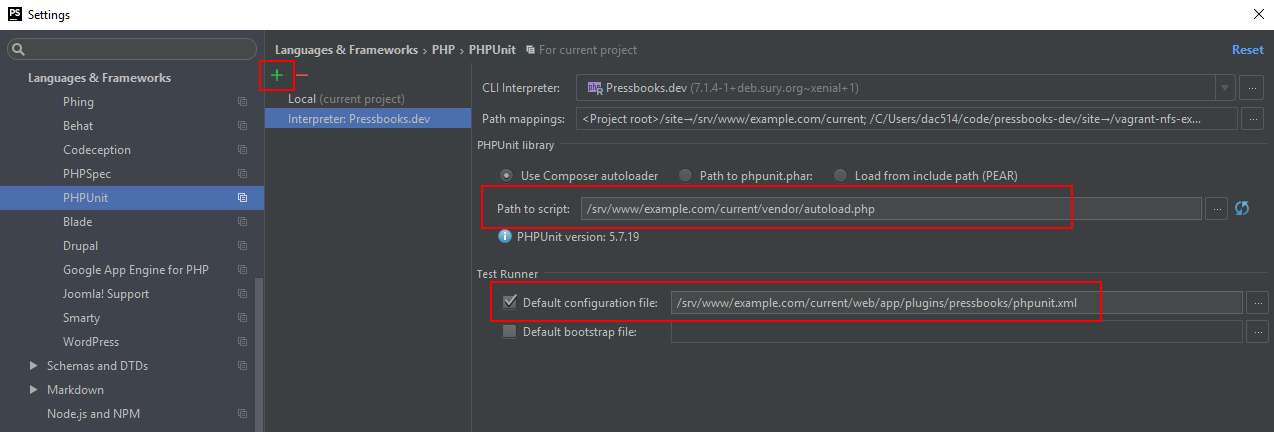
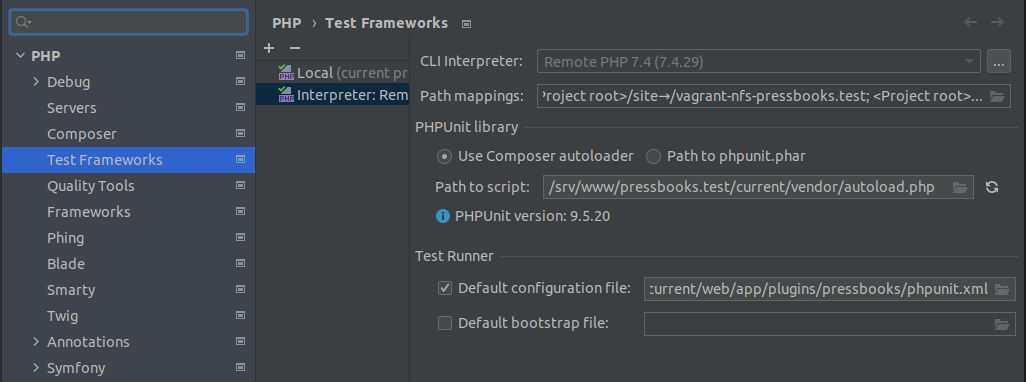
update phpstorm config

diff --git a/src/dev-docs/phpstorm-configuration.md b/src/dev-docs/phpstorm-configuration.md
@@ -1,15 +1,15 @@
 ---
 title: PhpStorm Configuration
-permalink: /docs/phpstorm/
+permalink: /dev-docs/phpstorm/
 ---
 
 ## Enable WordPress Integration
 
-Go to Settings &gt; Languages &amp; Frameworks &gt; PHP &gt; WordPress, enable, set installation path to `~/Code/pressbooks-dev/site/web/wp`:
+Go to Settings → PHP → Frameworks → WordPress, click enable and set installation path to `~/Code/pressbooks-dev/site/web/wp`:
 
 ![WordPress integration][1]
 
-## Npm
+## NPM
 
 Right click on package.json, select "Show npm Scripts":
 
@@ -17,7 +17,9 @@ Right click on package.json, select "Show npm Scripts":
 
 ## Databases
 
-In the Database tool window, click the plus symbol, select Data Source &gt; MySQL:
+[comment]: # "TODO: rewrite this section"
+
+In the Database tool window (View → Tool Windows → Database), click the plus symbol, select Data Source → MySQL:
 
 ![Databases][3]
 
@@ -44,19 +46,19 @@ In the General tab for the testing database _(use the same config as above for S
 
 ## Configure Remote PHP Interpreter
 
-Settings &gt; Languages &amp; Frameworks &gt; PHP &gt; CLI Interpreter, click the three dots [...], click the plus symbol, select "From Vagrant", set "Vagrant Instance File" to the trellis directory.
+Open Settings → PHP and find the CLI Interpreter option. Click the three dots [...], click the plus symbol, select "From Docker, Vagrant, VM, WSL, Remote" and set "Vagrant Instance File" to your Trellis directory.
 
-![PHP Interpreter][4]
+![PHP Interpreter settings step 1](../images/php-interpreter-settings-1.png)
+![PHP Interpreter settings step 2](../images/php-interpreter-settings-2.png)
+![PHP Interpreter completed](../images/php-interpreter-done.png)
 
 ## XDebug
 
-Update to the latest PHPStorm.
+Update to the latest PHPStorm and get the [Xdebug Helper][5] Chrome plugin.
 
-Get the [Xdebug Helper][5] Chrome plugin.
+Go to Settings → PHP &gt; Servers, create a new server named pressbooks.test and map:
 
-Go to Settings &gt; Languages &amp; Frameworks &gt; PHP &gt; Servers, create a new server named pressbooks.dev and map:
-
-- `pressbooks-dev/site` to `/srv/www/example.com/current`
+- `pressbooks-dev/site` to `/srv/www/pressbooks.test/current`
 - `pressbooks-dev/trellis` to `/home/vagrant/trellis`
 
 ![Xdebug Setup][6]
@@ -67,11 +69,11 @@ Enable Xdebug Helper in Chrome, set some break points in PhpStorm,enable the "St
 
 ## Configure Remote PHPUnit
 
-Settings &gt; Languages &amp; Frameworks &gt; PHP &gt; PHPUnit, create a new configuration based on Remote Interpreter, set path to autoload and configuration to point to files on remote server:
+Settings → PHP → Test Frameworks, create a new configuration based on Remote Interpreter, set path to autoload and configuration to point to files on remote server:
 
 ![PHPUnit][8]
 
-Click the three dots [...] next to path mappings and set `pressbooks-dev/site` to `/srv/www/example.com/current`:
+Click the three dots [...] next to path mappings and set `pressbooks-dev/site` to `/srv/www/pressbooks.test/current`:
 
 ![PHP Mappings][9]
 
@@ -81,15 +83,14 @@ Create and run new test configurations with "Test scope: Defined in the configur
 
 Troubleshooting: If you have restarted your VM you will see a `PHP Fatal error: require_once(): Failed opening required '/tmp/wordpress-tests-lib/includes/functions.php'` Fix by re-runing `bin/install-wp-tests.sh` (@see [Unit Testing][11] and [Coding Standards][12])
 
-[1]: /images/WordPress.png
-[2]: /images/npm-Tasks.png
-[3]: /images/Databases.png
-[4]: /images/PHP-Intepreter.png
+[1]: ../images/phpstorm-wp.png
+[2]: ../images/npm-tasks.png
+[3]: ../images/Databases.png
 [5]: https://chrome.google.com/webstore/detail/xdebug-helper/eadndfjplgieldjbigjakmdgkmoaaaoc?utm_source=chrome-app-launcher-info-dialog
-[6]: /images/Xdebug-1.png
-[7]: /images/Xdebug-2.png
-[8]: /images/PHPUnit.png
-[9]: /images/PHP-Mappings.png
-[10]: /images/PHPUnit-Running.png
+[6]: ../images/Xdebug-1.png
+[7]: ../images/Xdebug-2.png
+[8]: ../images/PHPUnit.png
+[9]: ../images/PHP-Mappings.png
+[10]: ../images/PHPUnit-Running.png
 [11]: /unit-testing/
 [12]: /coding-standards/

diff --git a/src/dev-docs/local-development.md b/src/dev-docs/local-development.md
@@ -307,7 +307,7 @@ composer standards
 
 We use [webpack][6] wrapped in [Laravel Mix][14] to build plugin assets (CSS and JavaScript) for Pressbooks.
 
-1. At the command prompt from the Pressbooks plugin directory, e.g. `~/Code/pressbooks-dev/site/web/app/plugins/pressbooks`, run `npm install` or `npm install --no-save pressbooks-build-tools` to install build tools.
+1. At the command prompt from the Pressbooks plugin directory, e.g. `~/Code/pressbooks-dev/site/web/app/plugins/pressbooks`, run `npm i` or `npm install --no-save pressbooks-build-tools` to install build tools.
 2. To lint your [Javascript](https://eslint.org) and [SCSS](https://stylelint.io) assets, run `npm run lint`.
 3. Then, run `npm run build` or `npm run build:production` to build your plugin assets (`npm run build:production` will add a version hash to the asset manifest for browser cache busting).
 
@@ -358,7 +358,7 @@ git checkout master
 git merge upstream
 ```
 
-Then commit the merge. You may need to regenerate your composer.lock file before you can commit, as there will often be merge conflicts.
+You may need to regenerate your composer.lock file to resolve merge conflicts before committing changes.
 
 [1]: https://roots.io/bedrock
 [2]: https://roots.io/trellis
